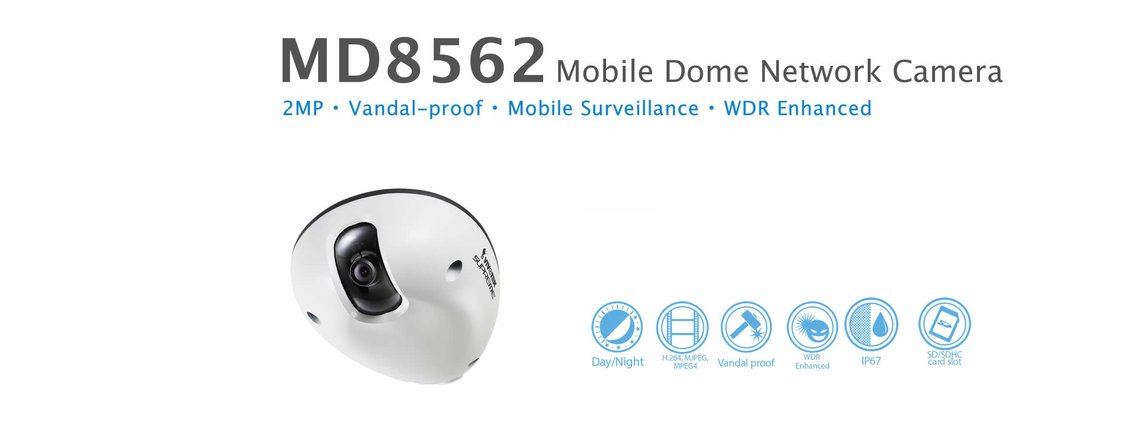
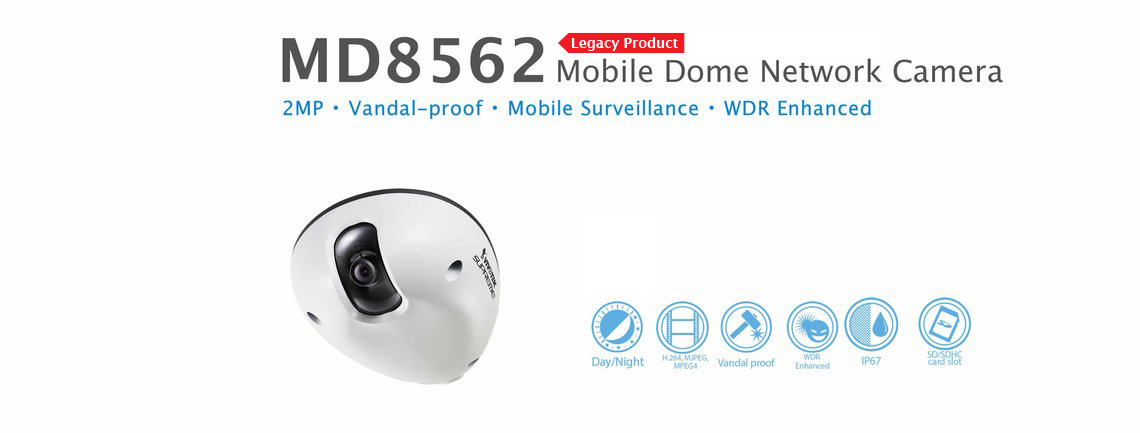
Modifies MD8562

Changed region(s): [[0.4912, 0.06, 0.614, 0.1201], [0.4605, 0.2402, 0.4912, 0.2702], [0.2456, 0.2402, 0.2763, 0.2702]]

diff --git a/md8562/index.html b/md8562/index.html
@@ -4,18 +4,12 @@
 <!--[if IE 7]><html class="no-js lt-ie9 lt-ie8"><![endif]-->
 <!--[if IE 8]><html class="no-js lt-ie9"><![endif]-->
 <!--[if gt IE 8]><!--><html class="no-js"><!--<![endif]-->
-
-
-
-
-
 <head>
  <meta charset="utf-8">
  <meta http-equiv="X-UA-Compatible" content="IE=edge,chrome=1">
  <title>MD8562 | VIVOTEK Mobile Dome Network Camera | 2MP | Vandal-proof | Mobile Surveillance | WDR Enhanced</title>
- <meta name="viewport" content="width=device-width, initial-scale=1.0, maximum-scale=1.0, user-scalable=no">
+ <meta name="viewport" content="width=device-width, initial-scale=1.0">
  <meta name="description" content="VIVOTEK MD8562 are compact, 2-megapixel network cameras geared toward transportation applications such as buses, trains, and other vehicles.">
- <meta name="keyword" content="vivotek, mobile dome network camera, md8562, 2mp, vandal-proof, mobile surveillance, wdr enhanced">
  <meta name="author" content="VIVOTEK">
  <!-- SCHEMA.ORG MARKUP FOR FACEBOOK --> 
  <meta property="og:title" content="MD8562 | VIVOTEK Mobile Dome Network Camera | 2MP | Vandal-proof | Mobile Surveillance | WDR Enhanced" >
@@ -65,12 +59,23 @@
  <link rel="apple-touch-icon-precomposed" sizes="72x72" href="image/all/VIVOTEK_icon_ipad.png">
  <!-- iPhone -->
  <link rel="apple-touch-icon-precomposed" sizes="57x57" href="image/all/VIVOTEK_icon_iphone.png">
+	<!-- Google Tag Manager -->
+	<script>(function(w,d,s,l,i){w[l]=w[l]||[];w[l].push({'gtm.start':
+	new Date().getTime(),event:'gtm.js'});var f=d.getElementsByTagName(s)[0],
+	j=d.createElement(s),dl=l!='dataLayer'?'&l='+l:'';j.async=true;j.src=
+	'https://www.googletagmanager.com/gtm.js?id='+i+dl;f.parentNode.insertBefore(j,f);
+	})(window,document,'script','dataLayer','GTM-KV2JCZ');</script>
+	<!-- End Google Tag Manager -->
 </head>
 
 
 
 
 <body class="homebody">
+<!-- Google Tag Manager (noscript) -->
+<noscript><iframe src="https://www.googletagmanager.com/ns.html?id=GTM-KV2JCZ"
+ height="0" width="0" style="display:none;visibility:hidden"></iframe></noscript>
+<!-- End Google Tag Manager (noscript) -->
 <!--[if lt IE 7]>
 <p class="chromeframe">
 You are using an <strong>outdated</strong>
@@ -208,6 +213,9 @@ to improve your experience.
       <div class="row">
         <div class="col-md-1"></div>
         <div class="col-md-10">
+
+          <h4 id="eos" class="red_5"><strong>This model is discontinued. The recommended replacement is <a href="/md8563-eh/" target="_blank" class="red_5"><u><span>MD8563-EH</span></u></a>.</strong></h4>
+
           <h3>Overview</h3>
           <p class="t84">VIVOTEK MD8562 are compact, 2-megapixel network cameras geared toward transportation applications such as buses, trains, and other vehicles. With full EN50155 compliance & IP67-rated design, the camera can withstand shock, vibration, humidity, dust, and temperature fluctuations, maintaining stable and reliable video during vehicle movement. Furthermore, the vandal-proof metal housing effectively provides robust protection from vandalism. As such, the combination of high resolution imaging and protective housing endows the MD8562 with the rugged reliability required to maximize passenger safety and optimize mobile surveillance.</p>
           <p class="t84">By utilizing high-definition 1920x1080 resolution, the MD8562 can deliver extremely clear and detailed images, achieving accurate identification of people or objects with ease. With WDR enhancement, users can identify image details in extremely bright or dark environments. Video footage of in-vehicle passenger activities or vehicle accidents captured with this camera can thus be used for post-event forensic evidence.</p>

diff --git a/legacy-products/index.html b/legacy-products/index.html
@@ -980,6 +980,7 @@ to improve your experience.
          <li><span data-path=".fixeddome">Fixed Dome</span></li>
          <li><span data-path=".ptz">PTZ Dome</span></li>
          <li><span data-path=".fisheye">Panoramic Fisheye</span></li>
+         <li><span data-path=".mobiledome">Mobile Dome</span></li>
          <li><span data-path=".cube">Cube</span></li>
          <li><span data-path=".poe">PoE Solution</span></li>
          <li><span data-path=".nvrs">NVRs</span></li>
@@ -1024,7 +1025,6 @@ to improve your experience.
         </div>
       </div>
 
-
       <!-- AC-222 -->
       <div class="list-item box">
         <div class="img"><a href="/accessories/ac_222.html" target="_blank"><img src="/image/all/icon_products/ac_222.png" alt="AC-222" style="border: solid 10px rgba(251,233,231,1); border: solid 10px rgba(255,255,255,1);"></a></div>
@@ -1040,7 +1040,6 @@ to improve your experience.
         </div>
       </div>
 
-
       <!-- AC-224 -->
       <div class="list-item box">
        <div class="img"><a href="/accessories/ac_224.html" target="_blank""><img src="/image/all/icon_products/ac_224.png" alt="AC-224" style="border: solid 10px rgba(239,235,233,1); border: solid 10px rgba(255,255,255,1);"></a></div>
@@ -1055,7 +1054,6 @@ to improve your experience.
          </p>         
         </div>
        </div>
-
 
       <!-- AE-131 -->
       <div class="list-item box">
@@ -2681,6 +2679,25 @@ to improve your experience.
        </div>
       </div>
 
+
+      <!-- MOBILE DOME CAMERAS START -->
+
+      <!-- MD8562 -->
+      <div class="list-item box">
+       <div class="img"><a href="/md8562/" target="_blank"><img src="/image/all/icon_products/md8562.png" alt="MD8562" style="border: solid 10px rgba(249,251,232,1); border: solid 10px rgba(255,255,255,1);"></a></div>
+        <div class="block block_t84">
+         <a href="/md8562/" target="_blank">
+         <h1 class="jplist_pro_title">MD8562</h1>
+         <p class="jplist_pro_des">2MP, 30fps, H.264/MJPEG/MPEG-4, IP67, IK10, EN50155</p>
+         </a>
+         <p class="theme">
+         <span class="mobiledome"><span class="iconic iconic-globe" title="Type" aria-hidden="true"></span> Mobile Dome</span>
+         </p>
+         <div class="div_clear_38"></div>
+        </div>
+      </div>
+
+      <!-- MOBILE DOME CAMERAS END -->
 
       <!-- PANORAMIC FISHEYE CAMERAS START -->
 
